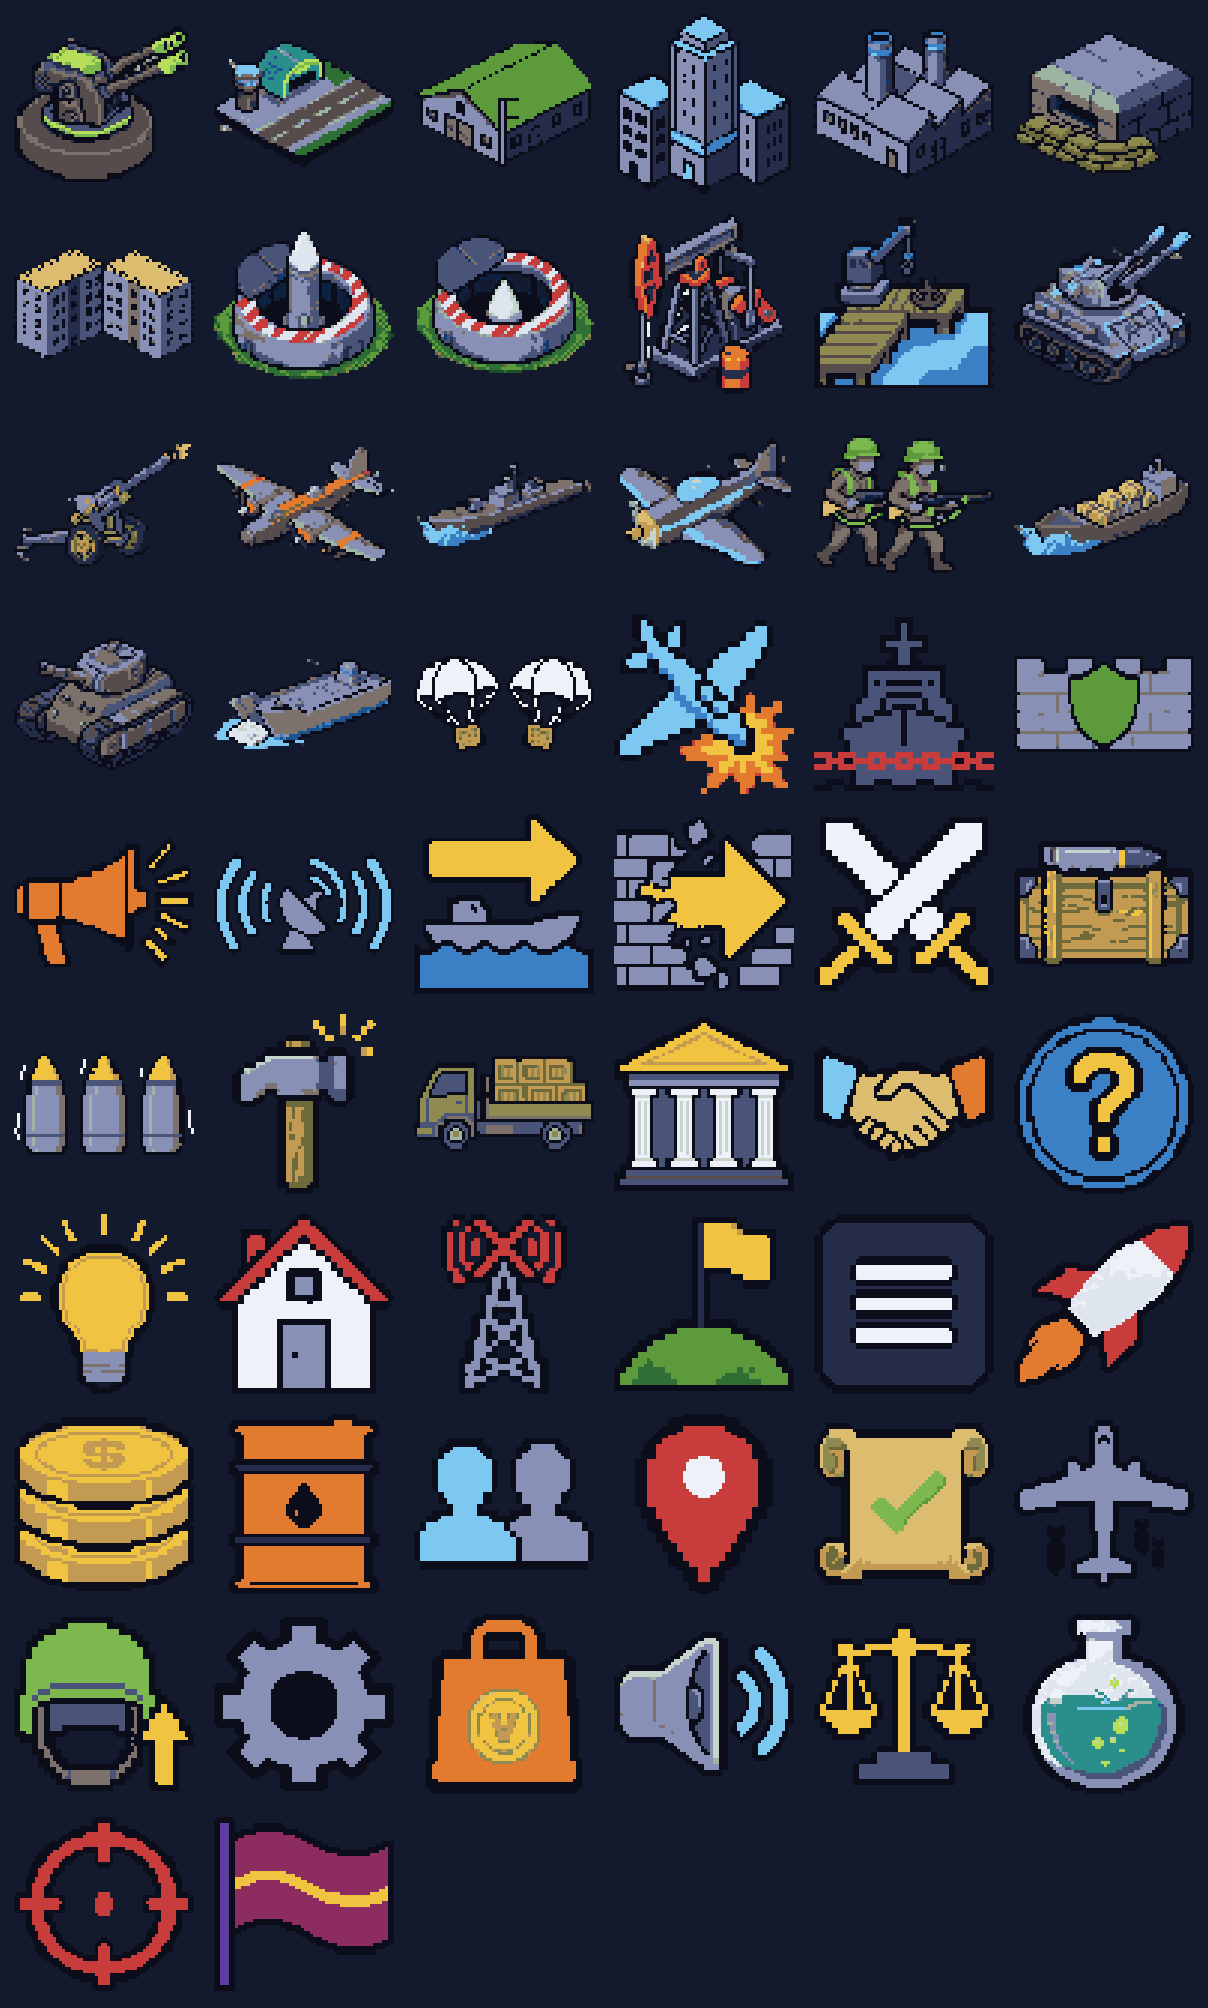
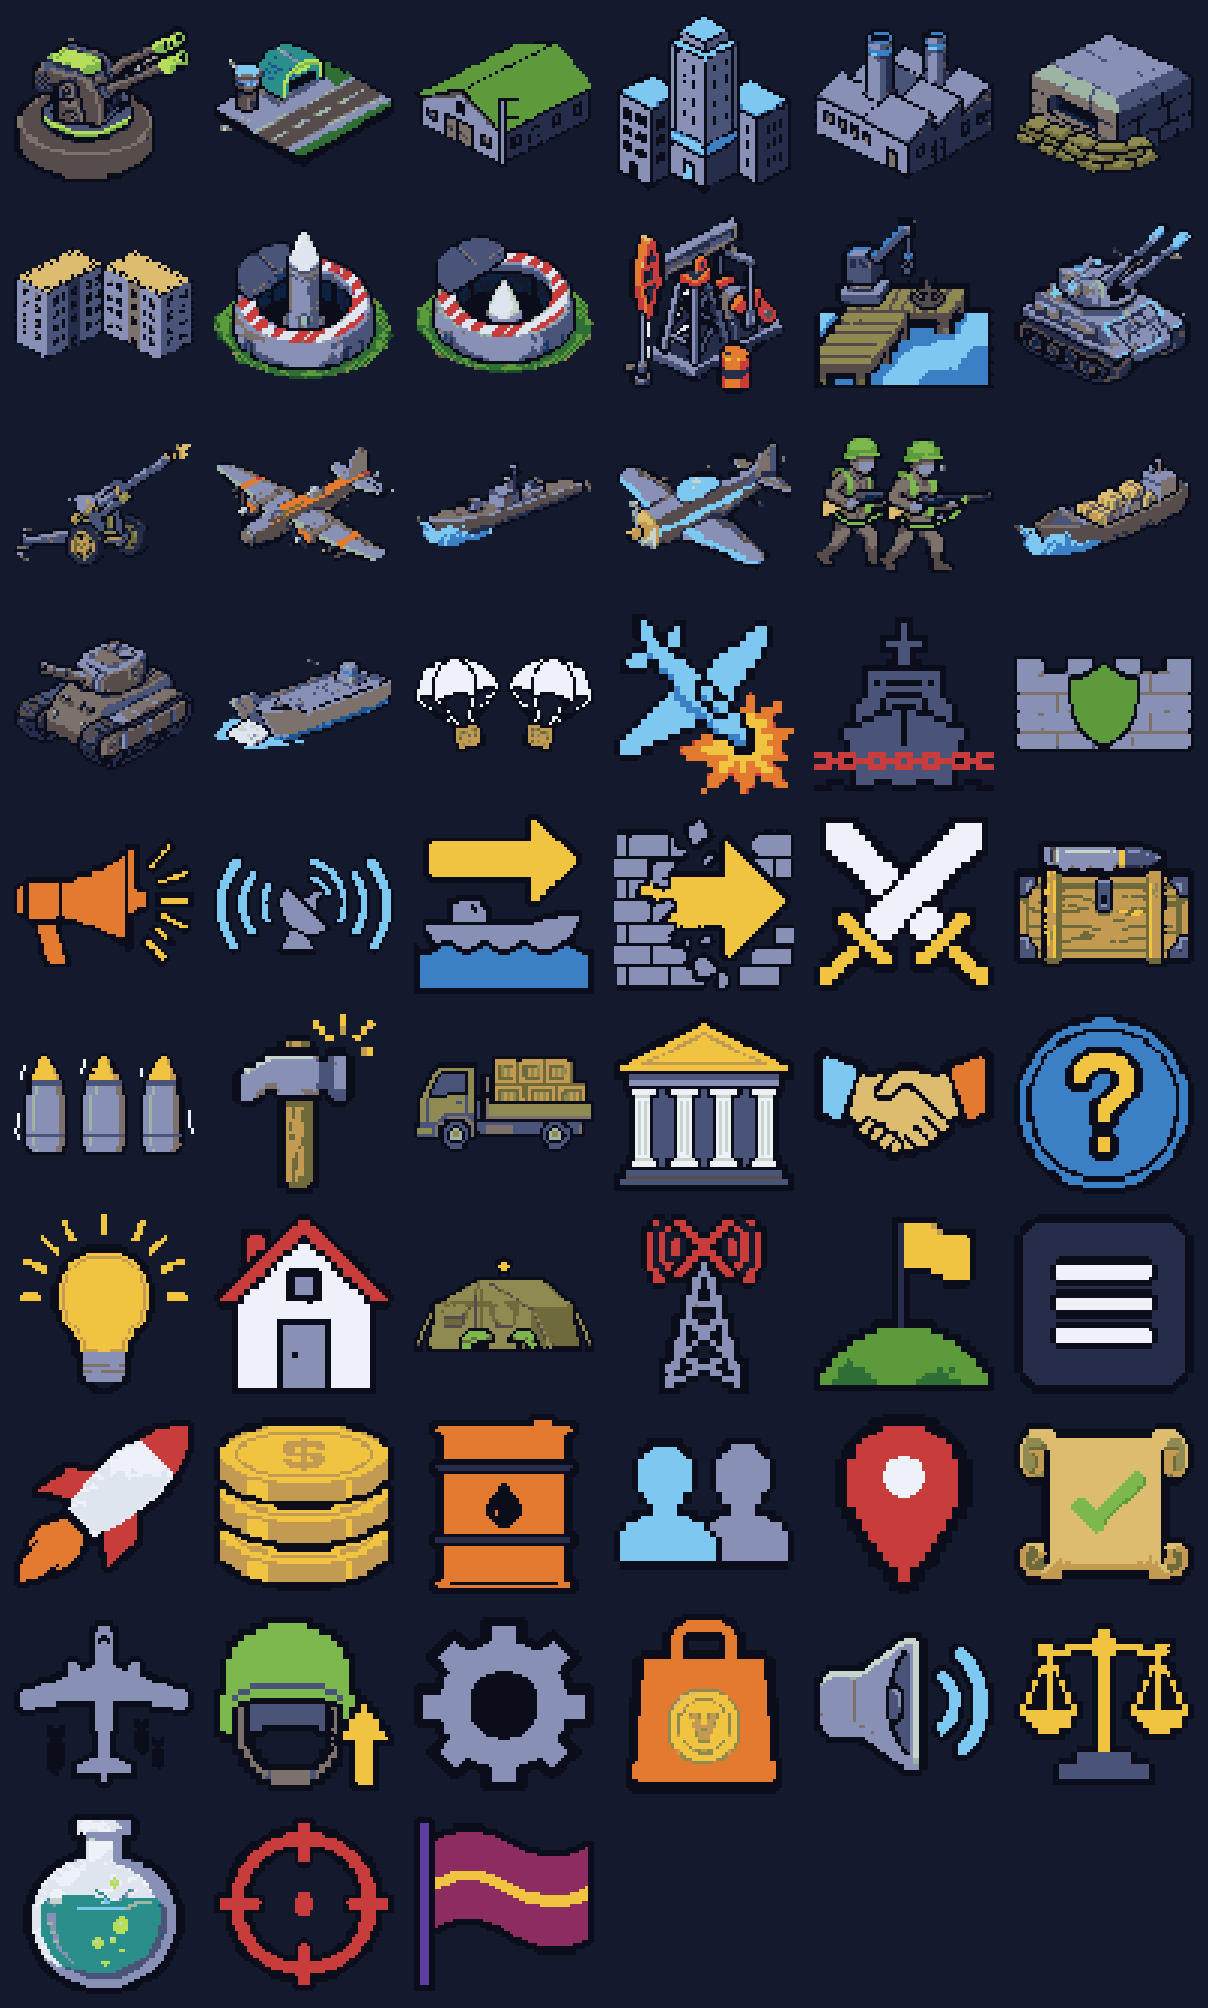
Фронтир §15ш Ш7: значок «Резерв штаба» картинкой — все значки PixelIcons теперь картинки
Claude-Session: https://claude.ai/code/session_01UGDKG1kJYufcUhJnibmo4x

Changed region(s): [[0.0, 0.5867, 0.9801, 1.0]]

diff --git a/frontir/docs/CHANGELOG.md b/frontir/docs/CHANGELOG.md
@@ -5,7 +5,7 @@
   (группа `ui`) → `IconData` (56 картинок, 64×64, палитра; превью `docs/previews/icons-game.png`).
 - `MenuKit.icon` — картинка вместо пикселей 8×8 (имена как у `PixelIcons`); лампочка подсказки — тоже; кнопка
   «Меню» у мини-карты — свой значок. `IconArt.forKey`: «strike.*» (плитки «УДАРОВ»), «arsenal.*» (карточки Арсенала).
-  Тест `IconArt.spec`: у каждого значка `PixelIcons` есть картинка (кроме «Резерва штаба»).
+  Тест `IconArt.spec`: у каждого значка `PixelIcons` есть картинка («Резерв штаба» — тоже, картинка пришла отдельно).
 
 ## §15ш Ш6 — значки, которых нет в шрифте
 - «✓» → «✔», «★» → «⭐», «♪» → «🔊», «⌂» → «🏠» (у прежних нет ни глифа в шрифте, ни эмодзи-варианта — как у «♛»,

diff --git a/frontir/docs/GDD.md b/frontir/docs/GDD.md
@@ -2382,7 +2382,7 @@ Rokit, проект Rojo, StyLua, Selene, luau-lsp, Lune-тесты, CI, `README
   вырезан) — тем же `tools/icon_pack` в `IconData`. Имена — как у прежних пиксельных значков 8×8 (`PixelIcons`), поэтому
   `MenuKit.icon` рисует картинку везде, где был значок: кнопки у мини-карты (и свой значок «Меню»), меню игры,
   плитки главного меню, витрины, подсказка. Плитки «УДАРОВ» (ракета, налёт, 8 способностей) и карточки Арсенала —
-  через `CardKit.art`. Нет картинки или памяти — прежний пиксельный значок («Резерв штаба» пока без картинки).
+  через `CardKit.art`. Нет картинки или памяти — прежний пиксельный значок.
 
 ## 16. Отчёт после каждого этапа
 

diff --git a/frontir/docs/ART_LIST.md b/frontir/docs/ART_LIST.md
@@ -5,7 +5,7 @@
 с прозрачным фоном (исходники, превью — `docs/previews/icons.png`). В игру — без загрузки в Roblox:
 `lune run tools/icon_pack` → `src/shared/IconData.luau` (64×64, палитра; превью `docs/previews/icons-game.png`),
 рисует `UI/IconImage`. Заменить иконку — новый PNG с тем же именем и снова `tools/icon_pack`. Значки интерфейса (§15ш Ш7) —
-`assets/icons/ui/<имя PixelIcons>.png` (36 шт.; нет — «Резерв штаба» `hqReserve`), удары — `missile`, `raid`,
+`assets/icons/ui/<имя PixelIcons>.png` (37 шт., все значки `PixelIcons`), удары — `missile`, `raid`,
 `ability_<способность>`. Значки на самой карте
 (12×12, корабли 8×5) остаются пиксельными.
 
